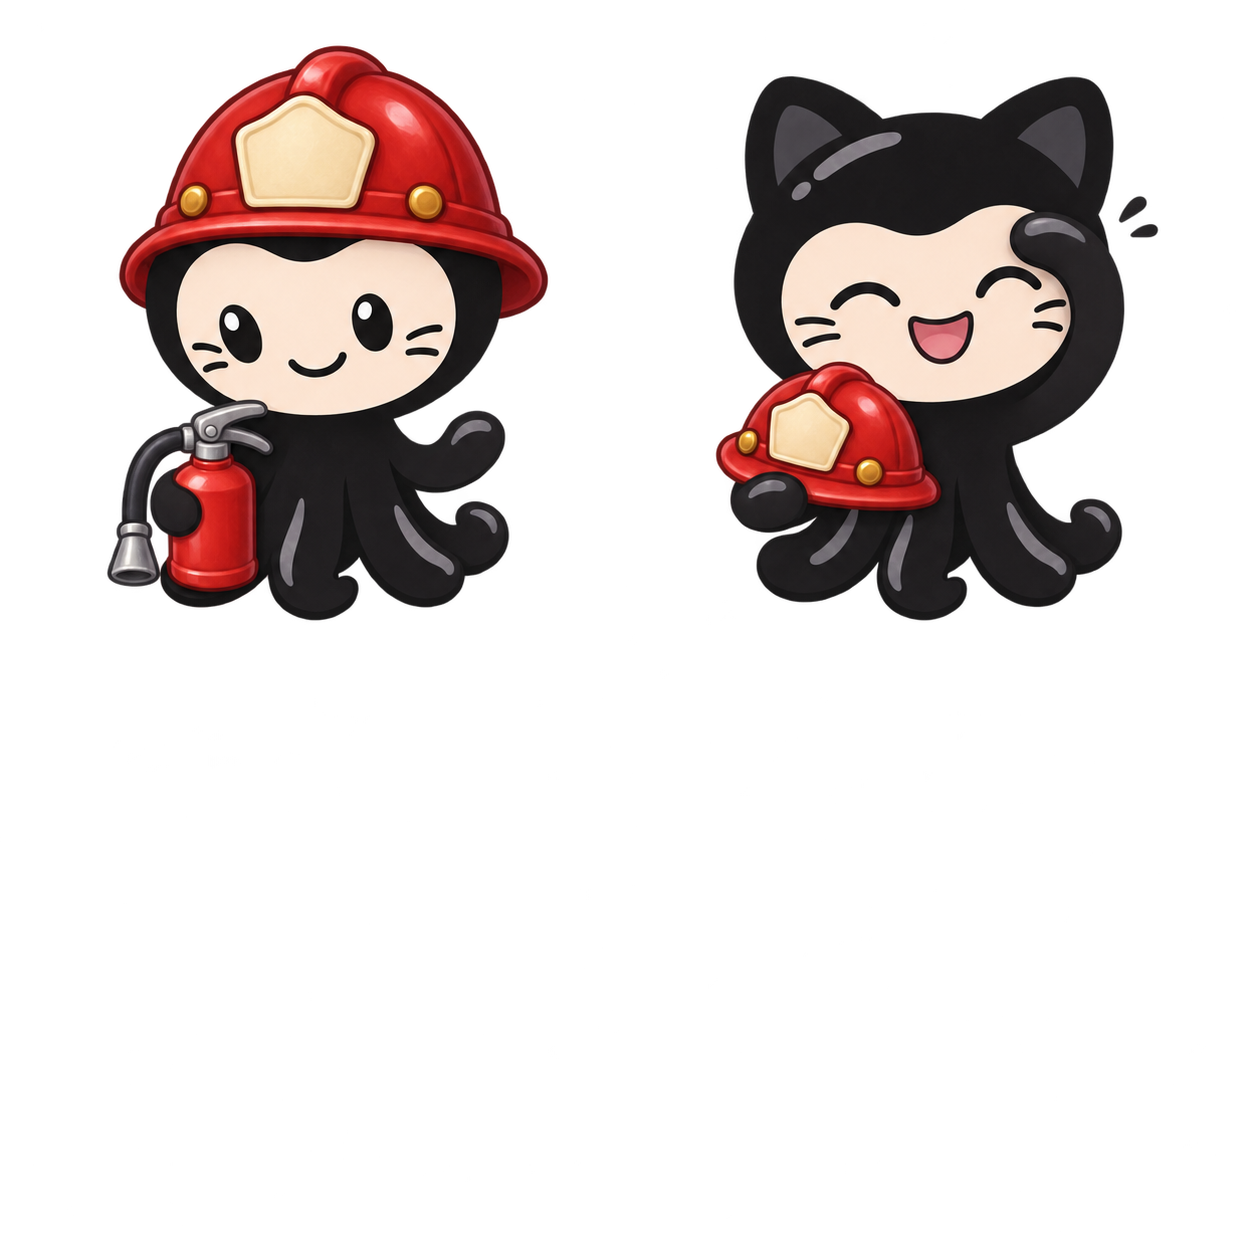
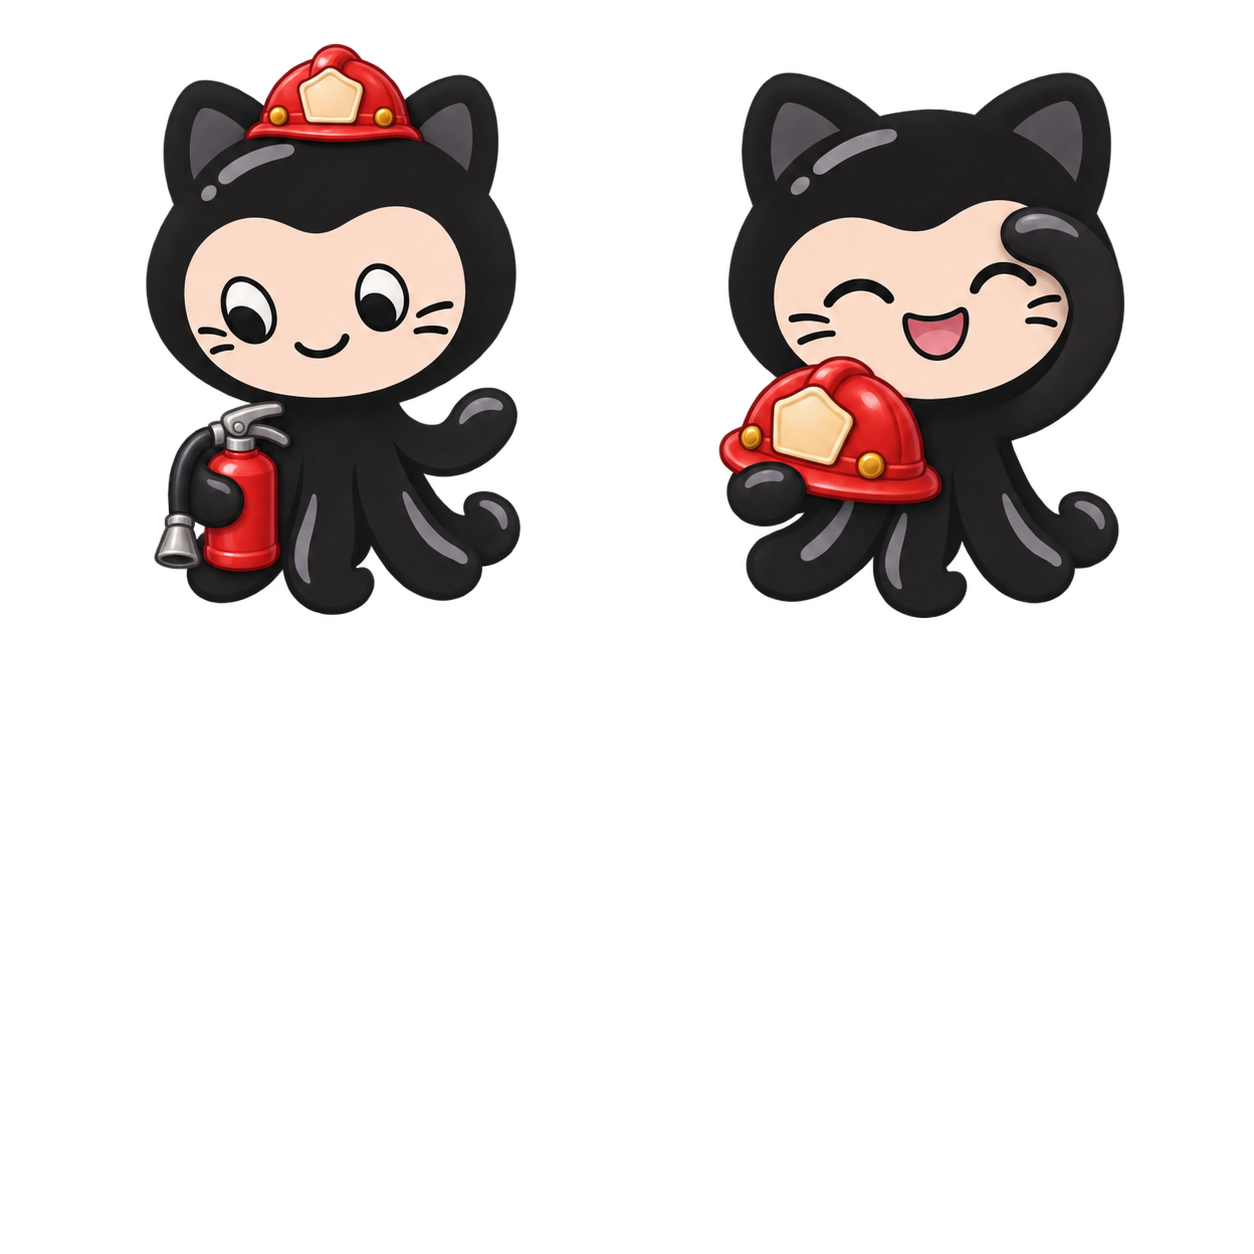
Revise Mona incident end B sheet

diff --git a/docs/design/provenance.md b/docs/design/provenance.md
@@ -145,6 +145,10 @@ Ambient B replacement review: both stretch poses have closed eyes and upward ten
 
 Little Chris ambient B replacement review: both yawns have hands raised close to head and closed eyes; lower cells preserve poses in intent but are regenerated, not pixel-identical. Exact bounds and baseline unverified. No visible effect marks; no retry.
 
[1 lines of base64/hex data omitted]
+
+Incident-end B replacement review: 04 looks down-left with small helmet; phew pose is regenerated in same intent, not pixel-identical. No visible effect marks. Exact bounds and baseline unverified. No retry.
+
 Both images are 1254×1254 and have alpha channels. Visual review: the helmet in pose 02 is already seated rather than clearly in transit, pose 01 looks forward rather than alert down-left, and pose 00's gaze is not clearly down-left. Helmet-on poses change the apparent head silhouette and scale; the helmet crown and overall bounds require measurement during later packing and review. No runtime frame, baseline, or bounds validation is claimed here. The props sheet places the helmet close to the central cell boundary. No retry or retouch was performed.
 
 Generated on 2026-11-12 using the built-in `image_gen.imagegen` integration under the imagegen skill. The orchestration terminal was launched with `gpt-6.1-sol`; the image integration does not expose its image-model identifier. No alternative model, procedural mascot, downloaded Octocat artwork, official GitHub logo, or credential was used.
